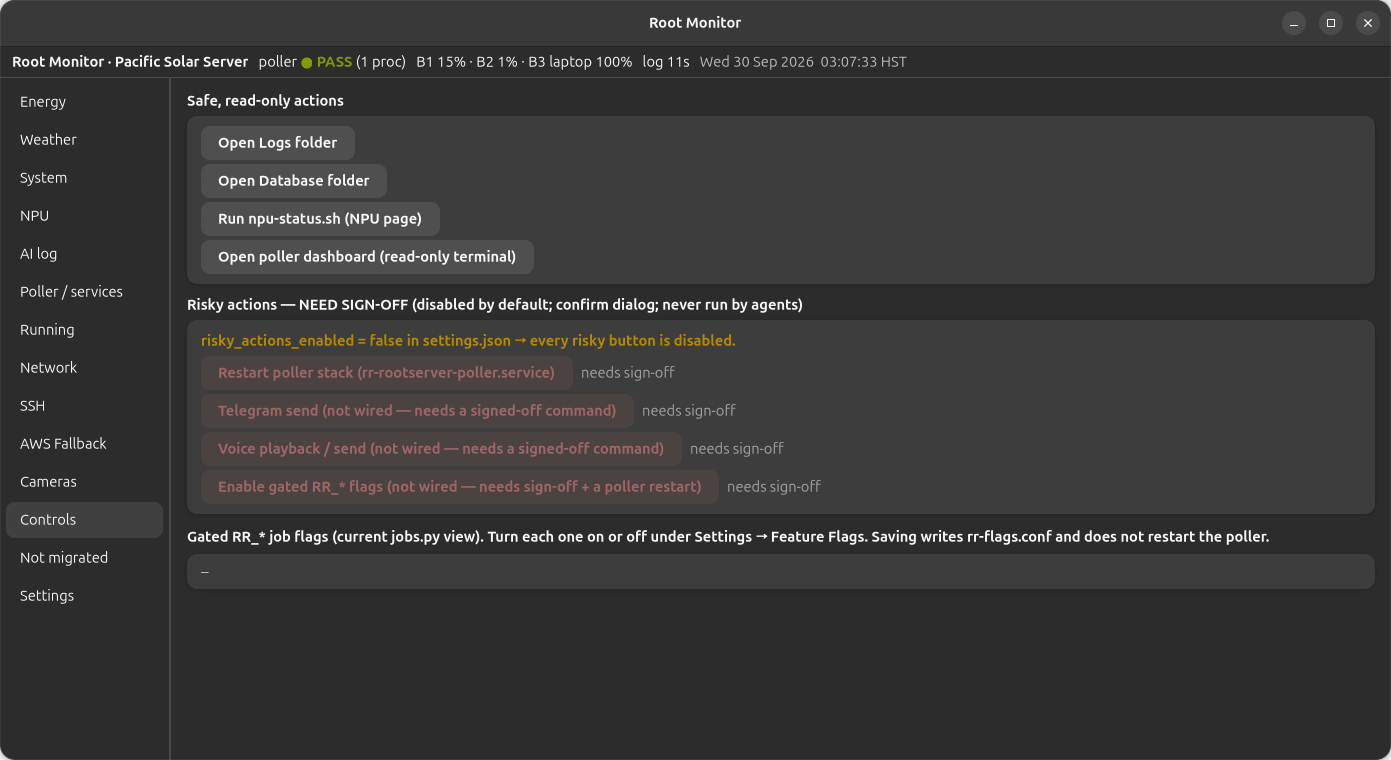
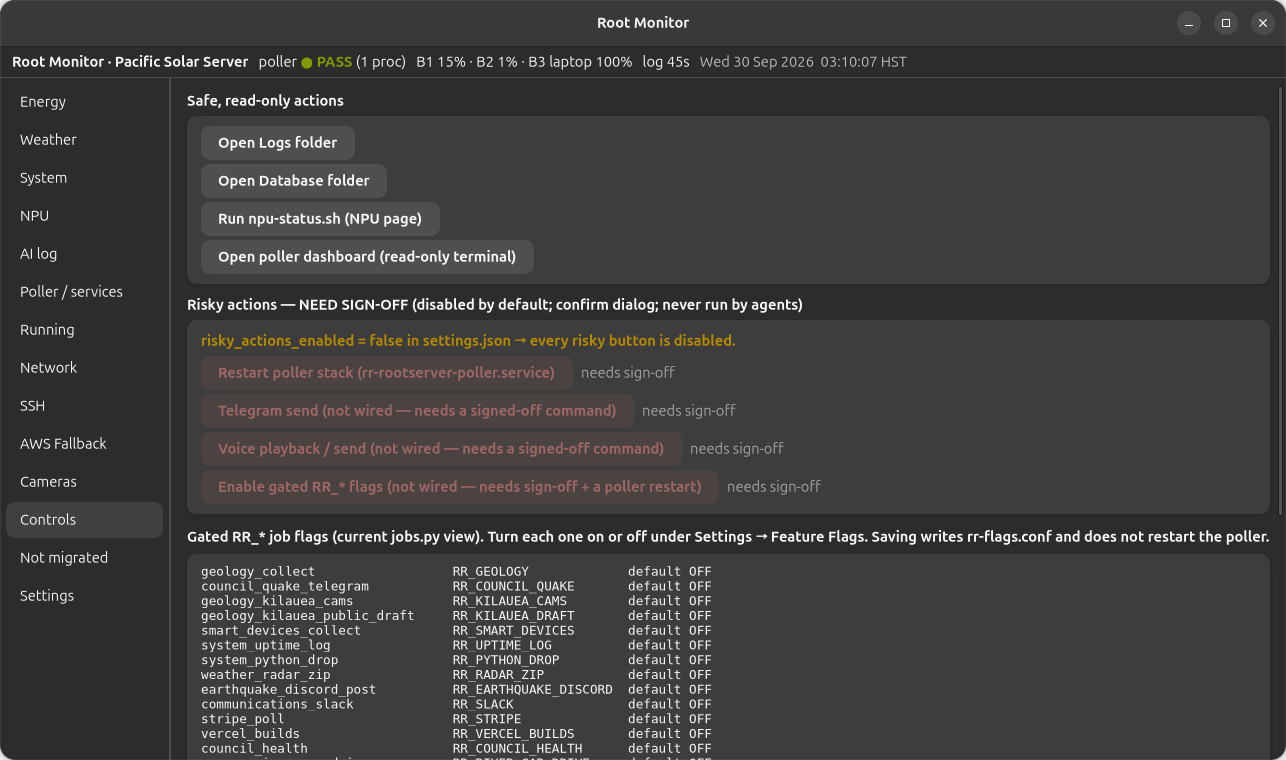
auto: 2026-09-30T13:10Z desk sync (3 file(s))

diff --git a/1 - Servers/1 - RootRecord-Pacific-Solar-Server/Apps/Control-Panel/Lib/rr_sources.py b/1 - Servers/1 - RootRecord-Pacific-Solar-Server/Apps/Control-Panel/Lib/rr_sources.py
@@ -688,7 +688,11 @@ def gated_jobs(paths: Paths) -> list[tuple[str, str, str]]:  # info: def gated_j
         text = paths.jobs_py.read_text(encoding="utf-8", errors="replace")  # info: set text
     except OSError:  # info: except OSError :
         return []  # info: return [ ]
-    pat = re.compile(r'"id":\s*"([^"]+)",\s*"enabled":\s*os\.environ\.get\("(RR_[A-Z0-9_]+)",\s*"([^"]*)"\)')  # info: set pat
+    # id and enabled are no longer on one line (comments sit between them). Stay inside one job dict.
+    pat = re.compile(
+        r'"id":\s*"([^"]+)"(?:(?!"id":).){0,600}?"enabled":\s*os\.environ\.get\(\s*"(RR_[A-Z0-9_]+)"\s*,\s*"([^"]*)"\s*\)',
+        re.S,
+    )
     return [(m.group(1), m.group(2), m.group(3)) for m in pat.finditer(text)]  # info: return [ ( m . group ( 1
 
 

diff --git a/5 - RootRecord-Library/Guides & Tutorials/Root-Monitor-Operators-Handbook/Root-Monitor-Operators-Handbook.md b/5 - RootRecord-Library/Guides & Tutorials/Root-Monitor-Operators-Handbook/Root-Monitor-Operators-Handbook.md
@@ -2,7 +2,7 @@
 
 Pacific Solar Server desk panel. Written for someone sitting at the machine who needs to see the site, change a setting on purpose, and leave the stack running.
 
-**Captured:** Wednesday 30 September 2026, 02:48–02:49 HST, from the live window on this desk.
+**Captured:** Wednesday 30 September 2026, 03:07–03:08 HST, from the live window on this desk.
 **App:** Root Monitor (`cloud.rootrecord.ControlPanel`), GTK4 + libadwaita. Renamed from "RootRecord Control Panel" on 29 September 2026. The folder and file names did not change.
 **Screenshots:** `media/` next to this file. Every page and every Settings sub-page. The app's own secret guard checked each picture before it was saved (0 matches).
 
@@ -59,7 +59,7 @@ The window opens at about 1100×760. A header bar says **Root Monitor**. Under i
 
 Read it before you read the page. On this capture it said:
 
-> Root Monitor · Pacific Solar Server · poller **PASS** (1 proc) · B1 19% · B2 1% · B3 laptop 100% · log 20s · Wed 30 Sep 2026 02:48:23 HST
+> Root Monitor · Pacific Solar Server · poller **PASS** (1 proc) · B1 15% · B2 1% · B3 laptop 100% · log 37s · Wed 30 Sep 2026 03:07:18 HST
 
 | Piece | Meaning |
 | --- | --- |
@@ -113,7 +113,7 @@ Batteries and the host do not share a color scale.
 | 50% up to 80% | amber |
 | 80% and above | red |
 
-On the 02:48 energy capture, B1 at 18.5% is red because the River is low. B3 at 100% is a full green bar because the laptop is on AC and full. On the later system capture, CPU at 3.6% is a short green bar and RAM at 70% is amber, because 70 is under the 80% red line.
+On this capture, B1 at 15.1% is red because the River is low. B3 at 100% is a full green bar because the laptop is on AC and full. CPU at 5.4% is a short green bar. RAM at 69.9% is amber, because 70 is under the 80% red line.
 
 ### On / off controls are buttons
 
@@ -137,7 +137,7 @@ Then stop. Controls and AWS Fallback are for a deliberate change, not a glance.
 
 ## Energy
 
-![Energy page at 02:48 HST](media/01-energy.png)
+![Energy page at 03:07 HST](media/01-energy.png)
 
 Three cards.
 
@@ -147,11 +147,11 @@ Same three bars as `poller-dashboard.py`.
 
 | Bar | Device | On this capture |
 | --- | --- | --- |
-| **B1** | EcoFlow River 2 Pro | **18.5%**, red. Sample **0m24s ago**, source `ble`. Not stale. |
-| **B2** | EcoFlow Delta 2 | **1.0%**, red. Sample **1h55m ago · STALE**, source `api`. |
+| **B1** | EcoFlow River 2 Pro | **15.1%**, red. Sample **0m41s ago**, source `ble`. Not stale. |
+| **B2** | EcoFlow Delta 2 | **1.0%**, red. Sample **2h14m ago · STALE**, source `api`. |
 | **B3** | This laptop | **100.0%**, green. **Full · AC** from sysfs. |
 
-Under the bars: the Delta 2 expansion pack. The status line's own B3 field was absent, so the panel says the expansion battery is not in the current status line. Do not confuse that line with the laptop bar. Laptop B3 is always the computer. Expansion B3 is a field inside the poller's ENERGY heartbeat, and it was missing at 02:48.
+Under the bars: the Delta 2 expansion pack. The status line's own B3 field was absent, so the panel says the expansion battery is not in the current status line. Do not confuse that line with the laptop bar. Laptop B3 is always the computer. Expansion B3 is a field inside the poller's ENERGY heartbeat, and it was missing at 03:07.
 
 The detail under each EcoFlow bar is age, source (`ble` or `api`), and the SUMMARY fragment from the log (`soc`, watts, `db=ok`).
 
@@ -162,12 +162,12 @@ One row per pack, from `Energy/watts/*-last.json`.
 | | River 2 Pro | Delta 2 |
 | --- | --- | --- |
 | solar in | 0 W | 0 W |
-| AC out | 34 W | 57 W |
+| AC out | 38 W | 57 W |
 | AC in | 0 W | 0 W |
-| USB-C out | 17 W | 0 W |
+| USB-C out | 14 W | 0 W |
 | charge source | none | none |
 | source | ble | api |
-| at | 02:48:01 HST | 00:53:04 HST |
+| at | 03:06:39 HST | 00:53:04 HST |
 
 Night, so solar in is zero. The River is still supplying a small AC and USB-C load and its sample is current. The Delta's watts row is as old as its SOC sample (00:53). Treat that row as last-known, not live.
 
@@ -175,7 +175,7 @@ Night, so solar in is zero. The River is still supplying a small AC and USB-C lo
 
 The newest `ENERGY` line from the tail of `Logs/Automations/automations_current.log`, then any `SUMMARY=` lines, then `SUN`.
 
-At 02:48 the heartbeat was live: `B2=1% B1=19.8% solar=0 W ac=57 W usbc=0 W`, laptop `LAP=100%/Full/AC`. `SUN` was a dash because the NOAA solar table was not available (same gap as the Weather page).
+At 03:07 the heartbeat was live: `B2=1% B1=15.3% solar=0 W ac=57 W usbc=0 W`, laptop `LAP=100%/Full/AC`. `SUN` was a dash because the NOAA solar table was not available (same gap as the Weather page). The River is still supplying a small AC and USB-C load. The Delta's watts row is as old as its SOC sample (00:53). Treat that row as last-known, not live.
 
 **What to do with a STALE pack:** the panel is showing you the gap. It does not reconnect BLE or call the EcoFlow API. The reader is `ava-ecoflow-ble.service` and the EcoFlow jobs. Check Poller / services (BLE should be PASS) and Running (the `ble-owner.py` process). A stale API sample with a live BLE sample on the other pack is a normal split: each pack has its own source.
 
@@ -191,7 +191,7 @@ Three cards. The island defaults to **Big Island**.
 
 **Stations** is the hourly NWS wind report (`oso_hourly_obs_current.md`). Four buttons sit on the card: **Big Island**, **Maui**, **Oahu**, **Kauai**. The selected one is green. A click saves `weather_zone` immediately, so the next launch stays on that island. Big Island is the file's "Hawaii" group.
 
-On the 03:05 HST capture the summary read:
+On this capture the summary read:
 
 > 63 reporting · 3 silent · Hilo AP 220° 6 kt at 02:00 · Kona Intl AP 60° 6 kt at 02:00
 
@@ -211,17 +211,17 @@ The same island name is on **Settings → Panel** as "Weather island". The butto
 
 **Host** reads `System/last/host-last.json`.
 
-| | This capture (03:05 HST) |
+| | This capture (03:07 HST) |
 | --- | --- |
-| CPU | 3.6% (5-minute average 12.0%). Short **green** bar. Under 50% is quiet. |
-| RAM | 70.1% used. 4.6 GB available of 15.2 GB. 5-minute average 72.3%. **Amber**, because 70 is between 50 and 80. |
-| Load | 0.86 / 0.97 / 1.03 |
+| CPU | 5.4% (5-minute average 10.1%). Short **green** bar. Under 50% is quiet. |
+| RAM | 69.9% used. 4.6 GB available of 15.2 GB. 5-minute average 70.2%. **Amber**, because 70 is between 50 and 80. |
+| Load | 0.72 / 0.90 / 0.99 |
 | Host | `rootrecord-software-solutions` |
-| Sampled | 03:04:13 HST |
+| Sampled | 03:06:40 HST, 42 seconds old |
 
 The line under the bars states the scale: green under 50%, amber from 50%, red at 80% and above. A red CPU or RAM bar means that number is at least 80%.
 
-**Poller SYSTEM line** is the latest SYSTEM heartbeat in the automations log. Here: `cpu=4% load=0.86 mem=70% src=sqlite`.
+**Poller SYSTEM line** is the latest SYSTEM heartbeat in the automations log. Here: `cpu=5% load=0.72 mem=70% src=sqlite`.
 
 If the host card and the SYSTEM line disagree by a lot, the host card is the JSON sample and the line is whatever the poller last wrote. Both ages are on screen. Trust the newer one, then look at Poller / services if the log age in the header is large.
 
